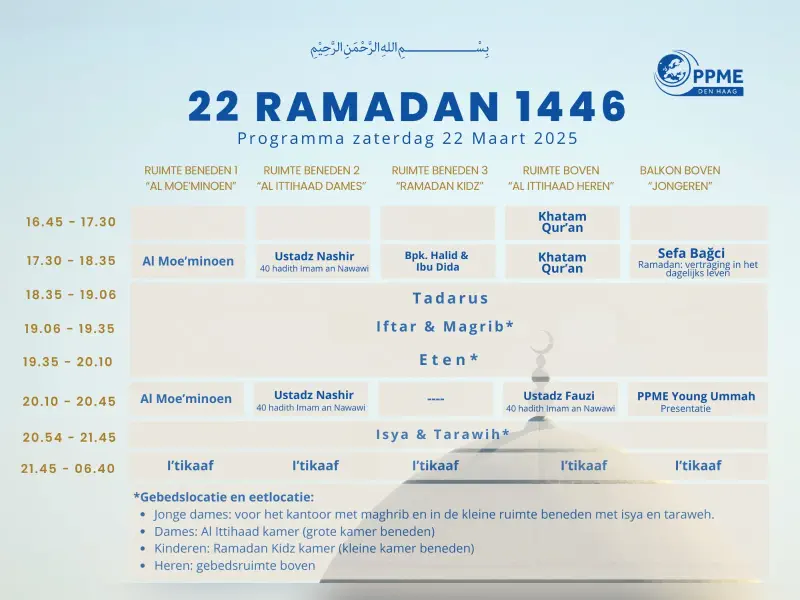
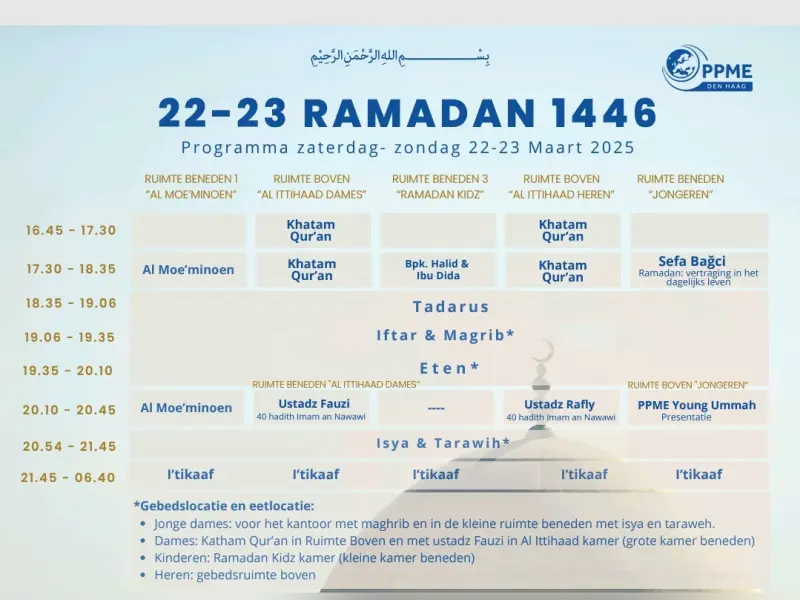
khataman

diff --git a/content/indonesia/event/ramadan-22-1446.md b/content/indonesia/event/ramadan-22-1446.md
@@ -1,5 +1,5 @@
 ---
-title: "Program 22 Ramadan 1446H"
+title: "Program 22-23 Ramadan 1446H"
 # Schedule page publish date
 publishDate: "2025-03-20T00:00:00+01:00"
 # event date
@@ -50,7 +50,7 @@ Berikut adalah program untuk Sabtu 22 Ramadan.
 <tr>
 <td class="text-nowrap" style="position:sticky;left:0px;background-color:white;">16.45 - 17.30</td>
 <td >&nbsp;</td>
-<td >&nbsp;</td>
+<th>Khatam Qur'an</th>
 <td >&nbsp;</td>
 <th>Khatam Qur'an</th>
 <th>&nbsp;</th>
@@ -60,7 +60,7 @@ Berikut adalah program untuk Sabtu 22 Ramadan.
 <tr>
 <td class="text-nowrap" style="position:sticky;left:0px;background-color:white;">17.30 - 18.35</td>
 <th style="font-weight: bold;">Al Moe'minoen</th>
-<th><span class="text-nowrap">Ustadz Nashir</span><br/><span style="font-weight: normal">40 hadith imam An Nawawi</span></th>
+<th>Khatam Qur'an</th>
 <th>Bpk. Halid & Ibu Dida</th>
 <th>Khatam Qur'an</th>
 <th><span class="text-nowrap">Sefa Bağci</span><br/><span style="font-weight: normal">Ramadan: vertraging in het dagelijks leven</span></th>

diff --git a/content/nederland/event/ramadan-22-1446.md b/content/nederland/event/ramadan-22-1446.md
@@ -48,8 +48,7 @@ Moge Allah SWT u gezondheid, geduld en heel veel liefde geven. Moge Allah onze i
 <tr>
 <td class="text-nowrap" style="position:sticky;left:0px;background-color:white;">16.45 - 17.30</td>
 <td >&nbsp;</td>
-<td >&nbsp;</td>
-<td >&nbsp;</td>
+<th>Khatam Qur'an</th><td >&nbsp;</td>
 <th>Khatam Qur'an</th>
 <th>&nbsp;</th>
 
@@ -58,7 +57,7 @@ Moge Allah SWT u gezondheid, geduld en heel veel liefde geven. Moge Allah onze i
 <tr>
 <td class="text-nowrap" style="position:sticky;left:0px;background-color:white;">17.30 - 18.35</td>
 <th style="font-weight: bold;">Al Moe'minoen</th>
-<th><span class="text-nowrap">Ustadz Nashir</span><br/><span style="font-weight: normal">40 hadith imam An Nawawi</span></th>
+<th>Khatam Qur'an</th>
 <th>Bpk. Halid & Ibu Dida</th>
 <th>Khatam Qur'an</th>
 <th><span class="text-nowrap">Sefa Bağci</span><br/><span style="font-weight: normal">Ramadan: vertraging in het dagelijks leven</span></th>
